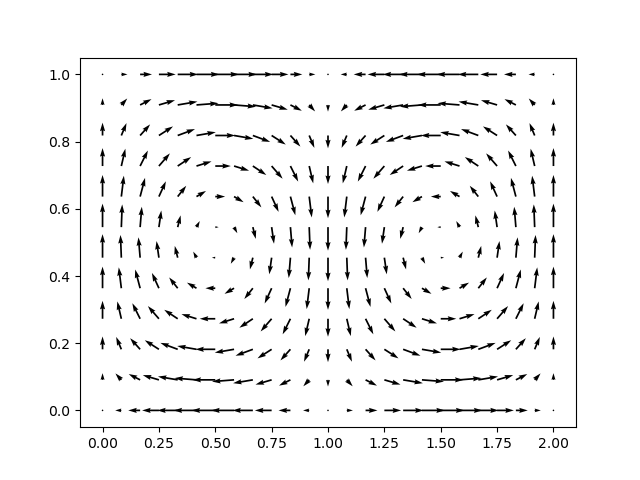
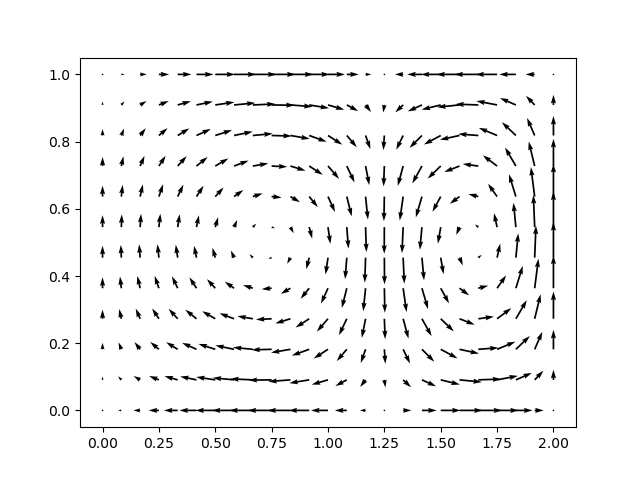
finished plotting trajectories

diff --git a/__main__.py b/__main__.py
@@ -18,7 +18,7 @@ T_0 = 10
 t = np.linspace(0, 3.5*T_0, 71, endpoint=True)  # use 3.5T_0 as max t to match Pratt et al., 2015
 
 # Create double gyre object and calculate velocity fields
-n = 200  # number of grid steps in the x direction, fewer when showing velocity arrows
+n = 25  # number of grid steps in the x direction, fewer when showing velocity arrows
 DoubleGyre = flowfield.DoubleGyre(a, eps, T_0, n)
 DoubleGyre.compute_vfields(t)
 # Check: Plot velocity field at a few times
@@ -32,34 +32,34 @@ for time in plot_times:
 T = -2*T_0  # integration time
 tau = [0, 2.5*T_0, 3*T_0, 3.5*T_0]  # evolution time 0 to 3.5 T_0
 DoubleGyre.compute_flow_map(T, tau)
-
-### Check: plot trajectories
-x_trajs = DoubleGyre.trajectories[0]
-y_trajs = DoubleGyre.trajectories[1]
-# set up figure
-fig, ax = plt.subplots()
-# First snapshot
-positions = ax.scatter(x_trajs, y_trajs, s=0.1, c='black')
-# Plotting configuration
-ax.set(xlim=[0, 2], ylim=[0, 1], xlabel='x', ylabel='y')
-
-def init_scatter():
-    positions.set_offsets([])
-    return(positions,)
-
-def update(frame):
-    data = np.column_stack((x_trajs[frame], y_trajs[frame]))
-    positions.set_offsets(data)
-    return (positions, )
-
-# len(DoubleGyre.trajectories[1]) for num frames?
-traj_movie = animation.FuncAnimation(fig=fig, func=update, frames=1000, interval=200, blit=True)
-plt.show()
-
-# save and show video
-f = r"plots/trajectories_200.mp4"
-writervideo = animation.FFMpegWriter(fps=60)
-traj_movie.save(f, writer=writervideo)
+#
+# ### Check: plot trajectories
+# x_trajs = DoubleGyre.trajectories[0]
+# y_trajs = DoubleGyre.trajectories[1]
+# # set up figure
+# fig, ax = plt.subplots()
+# # First snapshot
+# positions = ax.scatter(x_trajs, y_trajs, s=0.1, c='black')
+# # Plotting configuration
+# ax.set(xlim=[0, 2], ylim=[0, 1], xlabel='x', ylabel='y')
+#
+# def init_scatter():
+#     positions.set_offsets([])
+#     return(positions,)
+#
+# def update(frame):
+#     data = np.column_stack((x_trajs[frame], y_trajs[frame]))
+#     positions.set_offsets(data)
+#     return (positions, )
+#
+# # len(DoubleGyre.trajectories[1]) for num frames?
+# traj_movie = animation.FuncAnimation(fig=fig, func=update, frames=1000, interval=200, blit=True)
+# plt.show()
+#
+# # save and show video
+# f = r"plots/trajectories_200.mp4"
+# writervideo = animation.FFMpegWriter(fps=60)
+# traj_movie.save(f, writer=writervideo)
 
 
 
